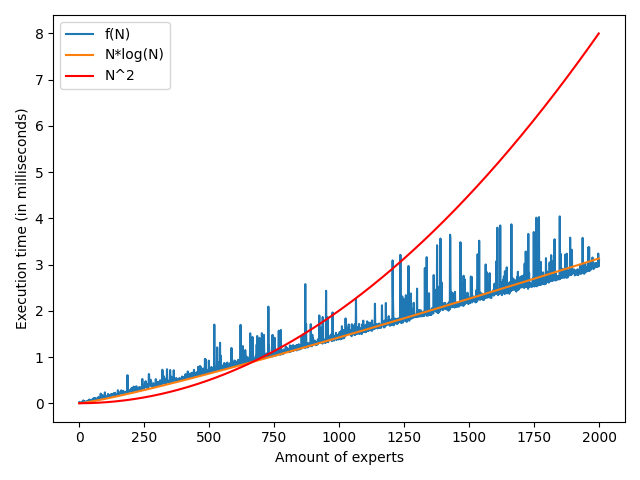
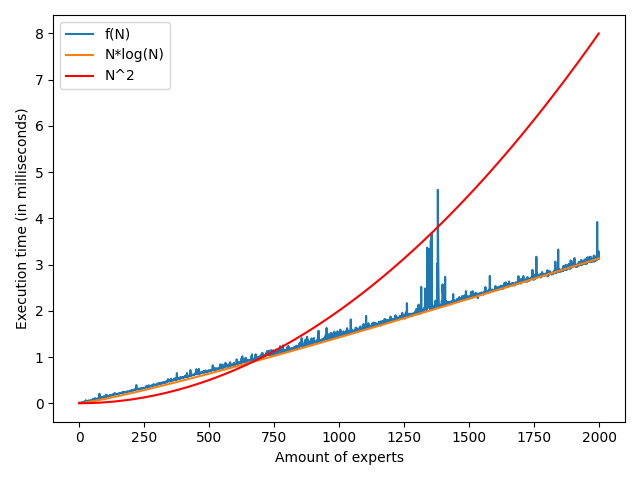
Results of the experiments added

Changed region(s): [[0.1875, 0.4062, 0.9375, 0.8125], [0.125, 0.8125, 0.1875, 0.8438]]

diff --git a/big_o_calculation.py b/big_o_calculation.py
@@ -4,8 +4,9 @@ import timeit
 import time
 import math
 import matplotlib.pyplot as plt
+from functions import generate_random_condition
 
-N = 5000
+N = 1000
 
 
 def generate_experts(n):
@@ -19,7 +20,21 @@ def generate_experts(n):
     return exps
 
 
-def execution_time():
+def execution_time_greedy():
+    start = timeit.default_timer()
+    exps_task.greedy_algorithm()
+    end = timeit.default_timer()
+    return (end - start) * 1000
+
+
+def execution_time_recursive():
+    start = timeit.default_timer()
+    exps_task.recursive_optimization()
+    end = timeit.default_timer()
+    return (end - start) * 1000
+
+
+def execution_time_dynamic():
     start = timeit.default_timer()
     exps_task.dynamic_algorithm()
     end = timeit.default_timer()
@@ -28,22 +43,66 @@ def execution_time():
 
 if __name__ == '__main__':
     amounts = range(1, N + 1)
-    comp_log = [n * math.log(n, 2) / 7000 for n in amounts]
-    comp_sq = [n * n / 500000 for n in amounts]
 
-    times = []
-    exps_list = []
+    times_greedy = []
+    times_recursive = []
+    times_dynamic = []
+
+    tf_greedy = []
+    tf_recursive = []
+    tf_dynamic = []
+
     for i in range(1, N + 1):
         # b = random.randint(1, 200)
         # e = random.randint(b, int(40 + b * 0.8))
         # exps_list.append((b, e))
-        exps_list = generate_experts(i)
+        exps_list = generate_random_condition(i, 1, 1000, 'Рівномірний для відрізків обмеженної довжини', 200)
         exps_task = ExpertsTask(exps_list)
 
-        times.append(execution_time())
+        times_greedy.append(execution_time_greedy())
+        tf_greedy.append(exps_task.tf_res)
 
-    plt.plot(amounts, times, amounts, comp_log, comp_sq, 'red')
+        times_recursive.append(execution_time_recursive())
+        tf_recursive.append(exps_task.tf_res)
+
+        times_dynamic.append(execution_time_dynamic())
+        tf_dynamic.append(exps_task.tf_res)
+
+    comp_log = [n * math.log(n, 2) / 5000 for n in amounts]
+    comp_sq = [n * n / 400000 for n in amounts]
+    plt.plot(amounts, times_greedy, amounts, comp_log, comp_sq, 'red')
     plt.legend(['f(N)', 'N*log(N)', 'N^2'])
     plt.ylabel('Execution time (in milliseconds)')
+    plt.xlabel('Amount of experts')
+    plt.show()
+
+    comp_log = [n * math.log(n, 2) / 500 for n in amounts]
+    comp_sq = [n * n / 30000 for n in amounts]
+    plt.plot(amounts, times_recursive, amounts, comp_log, comp_sq, 'red')
+    plt.legend(['f(N)', 'N*log(N)', 'N^2'])
+    plt.ylabel('Execution time (in milliseconds)')
+    plt.xlabel('Amount of experts')
+    plt.show()
+
+    comp_log = [n * math.log(n, 2) / 7000 for n in amounts]
+    comp_sq = [n * n / 500000 for n in amounts]
+    plt.plot(amounts, times_dynamic, amounts, comp_log, comp_sq, 'red')
+    plt.legend(['f(N)', 'N*log(N)', 'N^2'])
+    plt.ylabel('Execution time (in milliseconds)')
+    plt.xlabel('Amount of experts')
+    plt.show()
+
+    plt.plot(amounts, times_recursive, 'mediumpurple', amounts, times_greedy, amounts, times_dynamic, 'limegreen')
+    plt.legend(['Recursive optimization', 'Greedy algorithm', 'dynamic algorithm'])
+    plt.ylabel('Execution time (in milliseconds)')
+    plt.xlabel('Amount of experts')
+    plt.show()
+
+    eval_greedy = [abs(((j - i) / j) * 100) for i, j in zip(tf_greedy, tf_dynamic)]
+    eval_recursive = [abs(((j - i) / j) * 100) for i, j in zip(tf_recursive, tf_dynamic)]
+
+    plt.plot(amounts, eval_greedy, amounts, eval_recursive, 'limegreen')
+    plt.legend(['Greedy algorithm', 'Recursive optimization'])
+    plt.ylabel('Deviation from the optimal value (in %)')
     plt.xlabel('Amount of experts')
     plt.show()

diff --git a/functions.py b/functions.py
@@ -79,33 +79,39 @@ def generate_random_condition(quantity, min_val, max_val, distribution, max_len)
     condition = []
     if distribution == 'Усічений нормальний':
         for _ in range(quantity):
-            a = int(random.normalvariate((max_val + min_val) / 2, (max_val + min_val) / 5))
-            b = int(random.normalvariate((max_val + min_val) / 2, (max_val + min_val) / 5))
-            a = max_val if a > max_val else a
-            a = min_val if a < min_val else a
-            b = max_val if b > max_val else b
-            b = min_val if b < min_val else b
-            a, b = min(a, b), max(a, b)
-            if b - a > max_len:
-                delta = int((b - a - max_len) / 2)
-                b -= delta
-                a += delta
+            a = 0
+            b = 0
+            while a == b:
+                a = int(random.normalvariate((max_val + min_val) / 2, (max_val + min_val) / 5))
+                b = int(random.normalvariate((max_val + min_val) / 2, (max_val + min_val) / 5))
+                a = max_val if a > max_val else a
+                a = min_val if a < min_val else a
+                b = max_val if b > max_val else b
+                b = min_val if b < min_val else b
+                a, b = min(a, b), max(a, b)
+                if b - a > max_len:
+                    delta = int((b - a - max_len) / 2)
+                    b -= delta
+                    a += delta
             condition.append((a, b))
 
     elif distribution == 'Рівномірний':
         for _ in range(quantity):
-            a = random.randint(min_val, max_val)
-            b = random.randint(min_val, max_val)
-            a, b = min(a, b), max(a, b)
-            if b - a > max_len:
-                delta = int((b - a - max_len) / 2)
-                b -= delta
-                a += delta
+            a = 0
+            b = 0
+            while a == b:
+                a = random.randint(min_val, max_val - 1)
+                b = random.randint(min_val + 1, max_val)
+                a, b = min(a, b), max(a, b)
+                if b - a > max_len:
+                    delta = int((b - a - max_len) / 2)
+                    b -= delta
+                    a += delta
             condition.append((a, b))
 
     elif distribution == 'Рівномірний для відрізків обмеженної довжини':
         for _ in range(quantity):
-            a = random.randint(min_val, max_val)
+            a = random.randint(min_val, max_val - 1)
             b = a + random.randint(1, max_len)
             b = max_val if b > max_val else b
             condition.append((a, b))

diff --git a/algorithms.py b/algorithms.py
@@ -1,9 +1,6 @@
 import bisect
 import collections
 
-EXPERTS = [(1, 14), (2, 7), (7, 16), (14, 22), (18, 28), (25, 30), (28, 35), (30, 34), (34, 40)]
-
-
 # N = 10
 # EXPERTS = [(b:=random.randint(1, 50), random.randint(b, 50)) for i in range(N)]
 
@@ -170,6 +167,11 @@ class ExpertsTask:
 
 
 if __name__ == '__main__':
+    EXPERTS = [(1, 14), (2, 7), (7, 16), (14, 22), (18, 28), (25, 30), (28, 35), (30, 34), (34, 40)]
+
+    # from functions import generate_random_condition
+    # expertsss = generate_random_condition(1000, 1, 100000, 'Рівномірний для відрізків обмеженної довжини', 200)
+
     example = ExpertsTask(EXPERTS)
     print('Experts =', example.experts)
     print('X =', example.experts_res_list)
